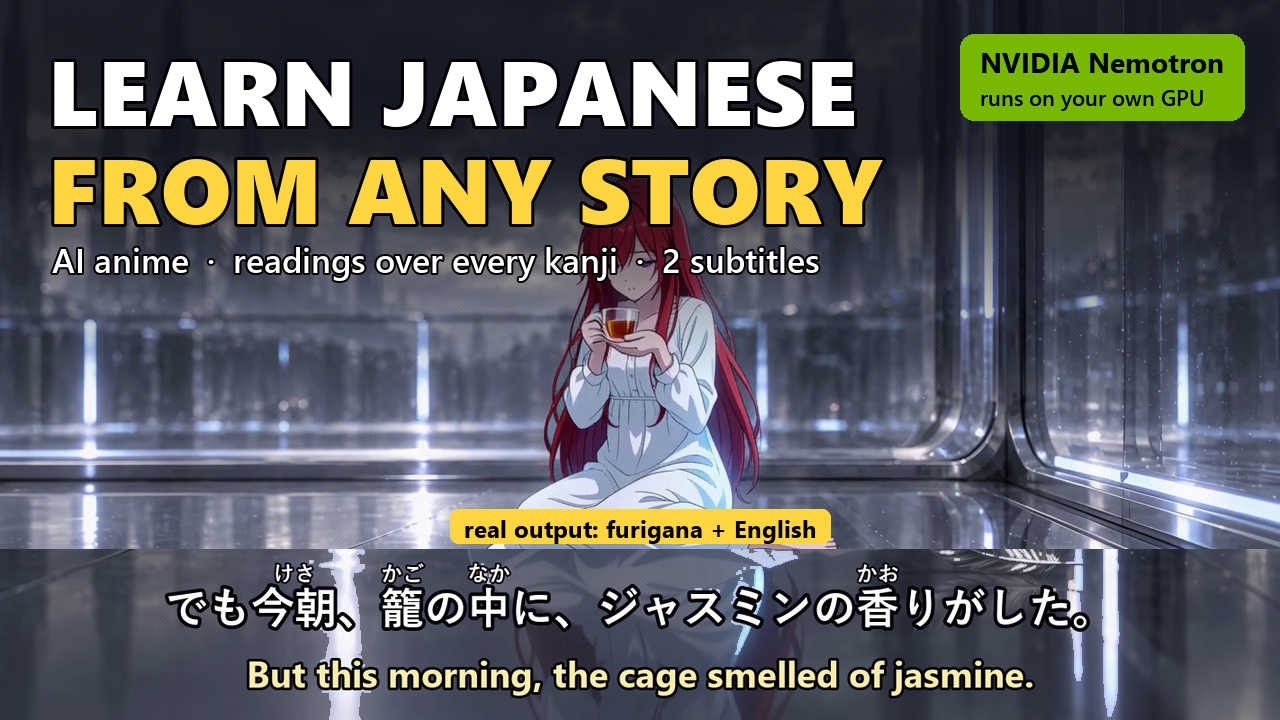
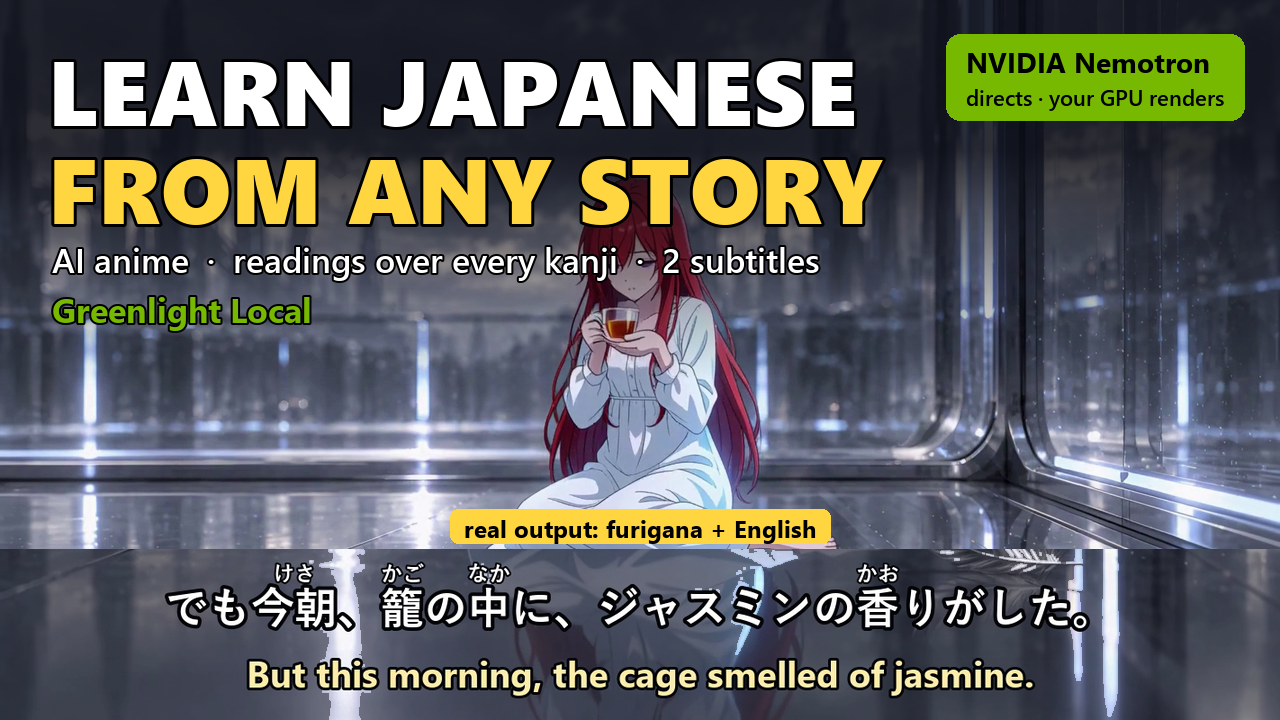
Submission materials: YouTube and Devpost copy, thumbnails; accurate wording on tool use
- YouTube thumbnail badge corrected (Nemotron directs, your GPU renders) and product name added; 3:2 version for Devpost
- submission/youtube.md and submission/devpost-form.md: title, description, testing instructions, update summary, feedback
- README and story: the program measures and hands results to Nemotron by default; in-reasoning tool calls were tested and cost more

Changed region(s): [[0.7188, 0.0306, 0.9688, 0.1833], [0.0312, 0.3972, 0.25, 0.4583]]

diff --git a/submission/make_thumbnail.py b/submission/make_thumbnail.py
@@ -64,10 +64,13 @@ text((48, 26), "LEARN JAPANESE", f1, WHITE, 3)
 text((48, 124), "FROM ANY STORY", f1, YELLOW, 3)
 f2 = ImageFont.truetype(SEMI, 34)
 text((52, 236), "AI anime  ·  readings over every kanji  ·  2 subtitles", f2, WHITE, 2)
+# 產品名（搜尋與評審對得上 Devpost 的專案名）
+text((52, 286), "Greenlight Local", ImageFont.truetype(BOLD, 34), GREEN, 2)
 
-# 右上角徽章：NVIDIA Nemotron · 自己的顯示卡
+# 右上角徽章：Nemotron 當導演、影片在自己的顯示卡生
+# （改：舊版寫「Nemotron runs on your own GPU」不對 —— Nemotron 走 Nebius 雲端，本機跑的是影片模型）
 fb = ImageFont.truetype(BOLD, 28)
-label, sub2 = "NVIDIA Nemotron", "runs on your own GPU"
+label, sub2 = "NVIDIA Nemotron", "directs · your GPU renders"
 bw = int(max(d.textlength(label, font=fb), d.textlength(sub2, font=ImageFont.truetype(SEMI, 22)))) + 40
 d.rounded_rectangle((W - bw - 36, 34, W - 36, 120), radius=14, fill=GREEN)
 d.text((W - bw - 16, 42), label, font=fb, fill=(0, 0, 0))

diff --git a/submission/devpost-form.md b/submission/devpost-form.md
@@ -1,0 +1,112 @@
+# Devpost submission form: testing instructions and feedback
+
+## Track
+
+Best Apps and Agents
+
+## Testing instructions
+
+**Quick look (about one minute, no GPU and no API key needed)**
+
+1. Download `GreenlightLocal-Setup.exe` from the latest release:
+   https://github.com/rainingsnow0914tw-ship-it/greenlight-local-nemotron/releases/latest
+   It runs on Windows 10/11 64-bit and installs for the current user, with no administrator prompt. Windows may
+   show a SmartScreen warning because the installer is not code-signed; choose **More info → Run anyway**.
+2. Open **Greenlight Local**. The project list already holds three finished, read-only samples.
+3. Open **Sample 1 — Fully automatic**, then its scene. Scroll from top to bottom to see the whole run:
+   the director's rounds and what the code gates caught, the producer's notes, the reference cards, each shot's
+   measured checks and the diagnosis with fixes side by side, the study-mode line table and notes, and the
+   finished film with readings and two subtitles.
+4. Switch the interface between **EN / 中文 / 日本語** at the top right. Every screen, check and diagnosis follows,
+   including what Nemotron wrote. The samples' notes are translated in advance, so this works without a key.
+5. Samples 2 and 3 show the other two ways to supply images: your own art used as-is, and character cards only.
+
+**Directing your own script** (needs a Nebius Token Factory API key)
+
+1. **Settings → ② Your keys**: paste a Token Factory key and press **Test**.
+2. **Home → Drop your script here**: any novel chapter, screenplay or prose (txt, md, docx, pdf, fountain).
+3. Choose a look and press **Start directing** on a part. Nemotron reads, stages and directs the scene; the
+   gates and the producer review run on Token Factory. In study mode, **Direct the lines** runs the line director.
+
+**Rendering video** (needs an NVIDIA GPU with 24 GB of memory, 32 GB of RAM and about 50 GB of disk)
+
+1. **Settings → ① This computer**: run the check, then let the one-click installer set up ComfyUI and the models.
+2. Prepare reference cards, run a test shot, then render the rest.
+
+Note on the video model: MiniMax H3's license excludes the United States, the European Union, the United Kingdom
+and South Korea. The app shows the license and asks for acceptance before installing it. In those regions the
+samples and every Nemotron step still work; only local rendering is affected.
+
+The README has the full install and usage guide.
+
+## What was significantly updated during the Submission Period
+
+The original Greenlight was a cloud app I released on 2026-08-20, before the hackathon opened (archived in
+`docs/original-greenlight`). During the hackathon I rebuilt it as a desktop app around NVIDIA Nemotron on Nebius
+Token Factory and a local video engine, and added: the director loop with 25 code gates and a producer review,
+pre-render gates with one-click fixes, staging and reference cards, measured shot checks, the symptom library and
+evidence-backed diagnosis, study mode with the line director and its gates, the finishing pipeline, editable
+knowledge files, the three-language interface, three built-in samples, and the Windows installer.
+
+## Feedback on Nebius Token Factory and NVIDIA Nemotron
+
+**What worked well**
+
+- **One API, three sizes.** Nemotron 3 Super, Ultra and Nano behind the same OpenAI-compatible endpoint made it easy
+  to give each role the right model: Super for directing, Ultra for the producer review and meaning checks, Nano
+  for high-volume translation of interface text.
+- **Tool calling on all three sizes.** Super, Ultra and Nano all accepted tool definitions, which let us try
+  in-reasoning tools (speech timing, gate checks) without switching providers.
+- **Reasoning control.** `chat_template_kwargs` with `enable_thinking` and `reasoning_budget` is accepted by
+  all three models and was the single most important setting for a stable director loop.
+- **Vision.** Nemotron 3.5 Super VL reliably answered narrow questions about our generated images (is there a
+  person in this empty set; what is this character wearing).
+
+**What was hard, with suggestions**
+
+1. **Reasoning tokens count against `max_tokens`, and running out returns an empty answer.** In our first
+   stability run, 8 of 24 director rounds came back empty because thinking passed 30,000 tokens and hit a
+   32,000 cap. Suggestions: a distinct `finish_reason` when the limit is reached during reasoning, and the
+   `reasoning_budget` parameter documented next to `max_tokens` in the quick-start.
+2. **`reasoning_budget` is a soft limit.** Set to 16,000, real thinking reached 27,000–28,000 tokens; we
+   settled on a budget of 12,000 with `max_tokens` of 48,000. Documenting the typical overshoot would save
+   others the measuring.
+3. **Long non-streaming responses are cut by proxies.** A long director turn with no bytes for 60 seconds was
+   dropped by the hosting proxy in front of our first cloud demo. Streaming fixed it. A note in the docs that
+   long reasoning calls should stream would help.
+4. **Structured output from Nano needs guards.** With a JSON schema, Nano occasionally wrapped the answer in an
+   extra object, returned mixed-language text unchanged when it contained a few Japanese words, or slipped a
+   word from another language into a Japanese translation (a Spanish word in one case). We added checks for all
+   three. Stricter schema adherence, or a documented recommendation for multilingual translation, would help.
+5. **Letting the model call tools cost more than doing the work for it.** In an A/B test on the same scene
+   (three runs each), letting Nemotron call our tools during reasoning averaged about 170,000 tokens with one
+   pass in three; precomputing the same information and checking afterwards averaged about 80,000 tokens with
+   three passes in three. A short guide on when in-reasoning tool use pays off would be valuable.
+6. **Credits.** Promo-code credits are not applied automatically and billing setup is required even when using
+   credits; a clearer first-run flow for hackathon credits would remove friction.
+7. **A video model on Token Factory.** None of the public models generates video, so rendering had to stay on a
+   local GPU. An open video model endpoint (or a serverless template for ComfyUI) would let projects like this run
+   end to end on Nebius.
+
+## Additional info answers (as saved in the Devpost draft, 2026-10-20)
+
+Project name: Greenlight Local · NVIDIA Nemotron Edition
+Elevator pitch: Drop in a story, get an anime you can learn a language from: directed by NVIDIA Nemotron, rendered on your own GPU, and checked shot by shot before anyone watches it.
+Built with: nvidia-nemotron, nebius-token-factory, python, fastapi, react, typescript, comfyui, minimax-h3, qwen-image, faster-whisper, real-esrgan, ffmpeg, pywebview, fugashi, pyinstaller
+Try it out: the repository and its latest release
+Gallery: 11 images from `screenshots/` (03, 01, 02, 05, 06, 07, 08, 09, 10, architecture, 04), each with an English caption
+Thumbnail: `screenshots/thumbnail_devpost_3x2.png`
+
+**Which models, and why that size.** Nemotron 3 Super (nvidia/nemotron-3-super-120b-a12b) for the long reasoning work: reading the script, staging, the director loop, the line director, fixing blocked shots and shot diagnosis. It reasons through a whole scene within a token budget and fixes exactly the shot a gate names. Nemotron 3 Ultra (nvidia/Nemotron-3-Ultra-550b-a55b) where judgment matters most: the producer review against the scene's emotional arc and the meaning review of rewritten lines. Nemotron 3 Nano (NVIDIA-Nemotron-3-Nano-30B-A3B) for fast, high-volume calls: subtitle translation and translating the interface's AI-written notes. Nemotron 3.5 Super VL for narrow image questions: is there a person in this empty set, what is this character wearing. Matching size to role keeps the app responsive and the cost per scene low.
+
+**Fine-tune, prompt-engineer or out of the box.** No fine-tuning. Nemotron is used through the Token Factory API with prompt engineering inside a framework of code. The director writes against a rulebook; Python gates check every draft and send it back with the exact rule and shot; drafts that get worse are rejected. The program measures (speech timing, the director's track record of most-broken rules) and hands the results to the model instead of letting it guess. Every diagnosis must cite a measurement, a person's observation or an approved control shot, and every producer note must quote the shot it names, or it is discarded. Reasoning is controlled with chat_template_kwargs (enable_thinking, reasoning_budget 12,000) and max_tokens 48,000. Each line-director gate was validated against hundreds of hand-approved Japanese lines and must stay silent on all of them before it may block.
+
+**Compared with other models.** The original cloud Greenlight used Gemini models for every role. Rebuilding around Nemotron, the biggest difference was how well Nemotron works inside a loop of explicit checks: when a gate says "rule 7, shot s061_10", it fixes that shot and leaves the rest alone, and directing converges in a few rounds. Splitting roles by size worked better than one model for everything: Super for directing, Ultra for the judgment-heavy review, Nano for volume. Where it needed more help than the cloud model we used before: long reasoning has to be budgeted explicitly, and Nano's multilingual output needs guards (occasionally an unchanged source line or a stray word from another language), which we added as code checks.
+
+**Most valuable Nebius capabilities.** Token Factory's OpenAI-compatible API gave one endpoint for Nemotron 3 Super, Ultra, Nano and the VL model, so each role could use the right size without changing providers or code paths. API access with streaming made long director turns reliable, and the reasoning controls (enable_thinking, reasoning_budget) were essential for a stable director loop. No GPU instances were needed for reasoning: all Nemotron inference runs on Token Factory, while the user's own GPU is left free for video rendering. During development a Cloud Run demo streamed director rounds live from Token Factory; the shipped app calls Token Factory directly with the user's own key.
+
+**Improvements that would have helped.** See items 1–7 in the feedback section above.
+
+**Hopes for the Nemotron team.** Open weights of the Nemotron 3 family sized to run alongside a video model on a single consumer GPU, so the whole crew (director, producer, line director) can run fully offline on the same machine that renders. Also: stronger multilingual output, especially Japanese and Chinese, and vision models that can watch short video clips, so a shot could be checked for lip sync and continuity directly.
+
+**Left for the entrant to fill in:** submitter type, organization, country, Canada province, the three 1–10 ratings, Tavily (No — this edition does not call Tavily), IRL city, the two eligibility checkboxes, AI tools used, learning level, career value. Demo video URL after the YouTube upload.

diff --git a/submission/youtube.md b/submission/youtube.md
@@ -1,0 +1,44 @@
+# YouTube upload
+
+- File: `demo-video/成片/greenlight_local_demo.mp4` (2:25, 1080p)
+- Thumbnail: `screenshots/thumbnail_youtube.png` (1280×720; regenerate with `python make_thumbnail.py`)
+- Captions: the English narration subtitles are already burned in; don't upload the .srt as well (it would show twice)
+- Visibility: Public or Unlisted (judges must be able to open the link without signing in)
+
+## Title
+
+Learn Japanese from Any Story — Greenlight Local, an AI Anime Director with NVIDIA Nemotron
+
+## Description
+
+Drop in a story. Get an anime you can learn a language from: directed by NVIDIA Nemotron, rendered on your own computer, and checked shot by shot before anyone watches it.
+
+I grew up watching anime, and learning Japanese I got stuck in the middle: textbooks were too easy, real shows too fast, and almost nothing had readings over the kanji. So I started making my own study anime. Greenlight Local packages everything I learned into one app.
+
+What you'll see:
+• Nemotron directs every scene against a rulebook; code gates send any draft that breaks a rule back with the exact reason, and a second Nemotron reviews the cut as a producer
+• Every rendered shot is measured: is the line spoken correctly, is there extra speech, is there room at the end
+• When a shot fails, Nemotron diagnoses it from a library of proven causes, cites the evidence, and lays out every fix with its real cost
+• Study mode: every line rewritten the way the character would really say it, with readings over the kanji, two subtitles, and a note on why it is said that way
+• The whole app works in English, Chinese and Japanese
+
+Chapters
+0:00 Why I built this
+0:13 Drop in a story
+0:35 A director's rulebook, a producer's review
+0:49 Every shot is measured
+1:04 Diagnosis and fixes with real costs
+1:22 Voice without lip movement, for inner monologue
+1:31 Study mode: any story becomes a language lesson
+1:57 Finishing, and knowledge in plain files
+2:10 Greenlight Local
+
+Built for the Nebius × NVIDIA Global AI Hackathon.
+Reasoning: NVIDIA Nemotron 3 (Super, Ultra, Nano) via Nebius Token Factory. Video: MiniMax H3 in ComfyUI on a local NVIDIA GPU.
+
+Code and installer: https://github.com/rainingsnow0914tw-ship-it/greenlight-local-nemotron
+Devpost: <add the project link>
+
+Made by Chloe Kao.
+
+#NVIDIA #Nemotron #Nebius #LearnJapanese #AIAnime #ComfyUI

diff --git a/docs/devpost-story.md b/docs/devpost-story.md
@@ -134,8 +134,10 @@ over hundreds of lines I had already approved by hand and keep it only if it sta
 
 An AI director needs two things that grow together: a framework (rules it must follow, measurements it
 cannot argue with, a memory of what worked) and a model that can actually work inside it. Nemotron
-reasons through a whole scene within a token budget, calls our tools in the middle of its thinking, and
-when a gate names a rule and a shot, it fixes exactly that shot. Every rule and example in this app was
+reasons through a whole scene within a token budget, works from the timings and track record the
+program measures for it, and when a gate names a rule and a shot, it fixes exactly that shot. We also
+tested letting it call those tools itself mid-reasoning; doing the measuring for it was cheaper and
+passed more often, so that is the default. Every rule and example in this app was
 tuned against how Nemotron thinks, and that fit is what makes the loop converge.
 
 The second lesson is about resources. Most creators don't have a lab; they have one GPU, the open models

diff --git a/README.md b/README.md
@@ -252,8 +252,8 @@ steps.
 | Interface translation | Nemotron 3 Nano | Producer notes, diagnoses and explanations shown in the language you picked |
 
 **Why it is built on Nemotron.** The director loop asks a lot of a model: reason through a whole scene
-within a token budget, call tools in the middle of that reasoning (speech timing, the gates), and when a
-gate says "rule 7, shot s061_10", fix exactly that shot and nothing else. Nemotron does all three
+within a token budget, work from the speech timings and track record the program measures for it, and
+when a gate says "rule 7, shot s061_10", fix exactly that shot and nothing else. Nemotron does all three
 reliably, and the rules, gates and examples were tuned against how it thinks. Its open weights also mean
 the whole crew can one day run on the same NVIDIA GPU that renders the film.
 
